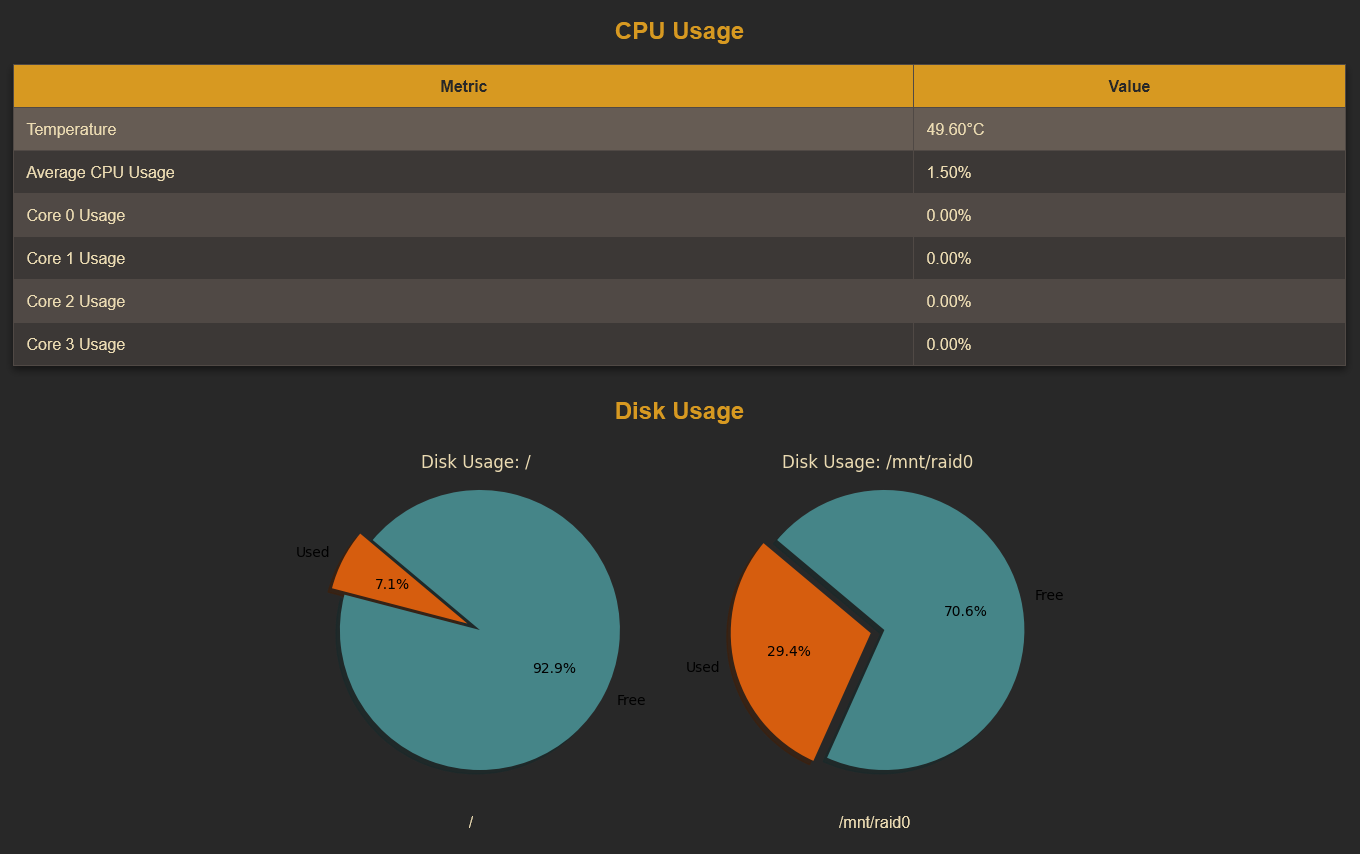
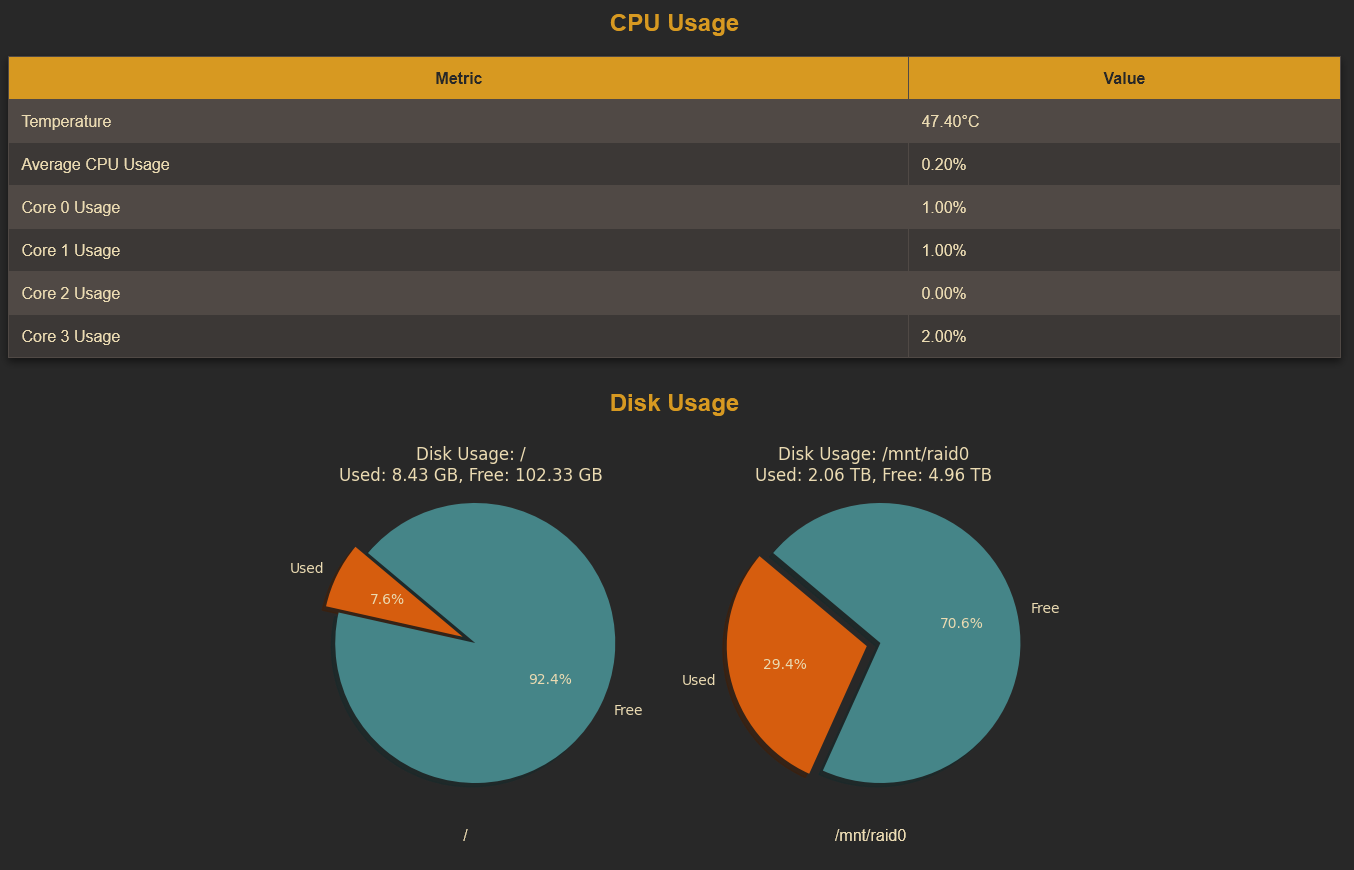
Improve how units are displayed

diff --git a/app.py b/app.py
@@ -50,6 +50,14 @@ def get_cpu_usage():
     except Exception as e:
         return f"Error: {e}"
 
+def generate_sizes_and_units(size):
+    units = ['B', 'KB', 'MB', 'GB', 'TB']
+    for unit in units:
+        if size < 1024:
+            return size, unit
+        size /= 1024
+    return size, units[-1]
+
 def generate_disk_pie_chart(volume_path):
     try:
         usage = psutil.disk_usage(volume_path)
@@ -61,10 +69,8 @@ def generate_disk_pie_chart(volume_path):
         # Set the labels to be gruvbox white
         plt.rcParams['text.color'] = '#ebdbb2'
 
-        # Format the sizes in a human-readable format (e.g., GB)
-        used_size = usage.used / (1024**3)  # Convert bytes to GB
-        free_size = usage.free / (1024**3)  # Convert bytes to GB
-        total_size = usage.total / (1024**3)  # Convert bytes to GB
+        [used_size, used_units] = generate_sizes_and_units(usage.used)
+        [free_size, free_units] = generate_sizes_and_units(usage.free)
 
         # Create the pie chart
         plt.figure(figsize=(4, 4))
@@ -79,7 +85,7 @@ def generate_disk_pie_chart(volume_path):
         )
         plt.title(
             f"Disk Usage: {volume_path}\n"
-            f"Used: {used_size:.2f} GB, Free: {free_size:.2f} GB",
+            f"Used: {used_size:.2f} {used_units}, Free: {free_size:.2f} {free_units}",
             color="#ebdbb2"
         )
         plt.axis('equal')  # Equal aspect ratio ensures a circular pie chart
